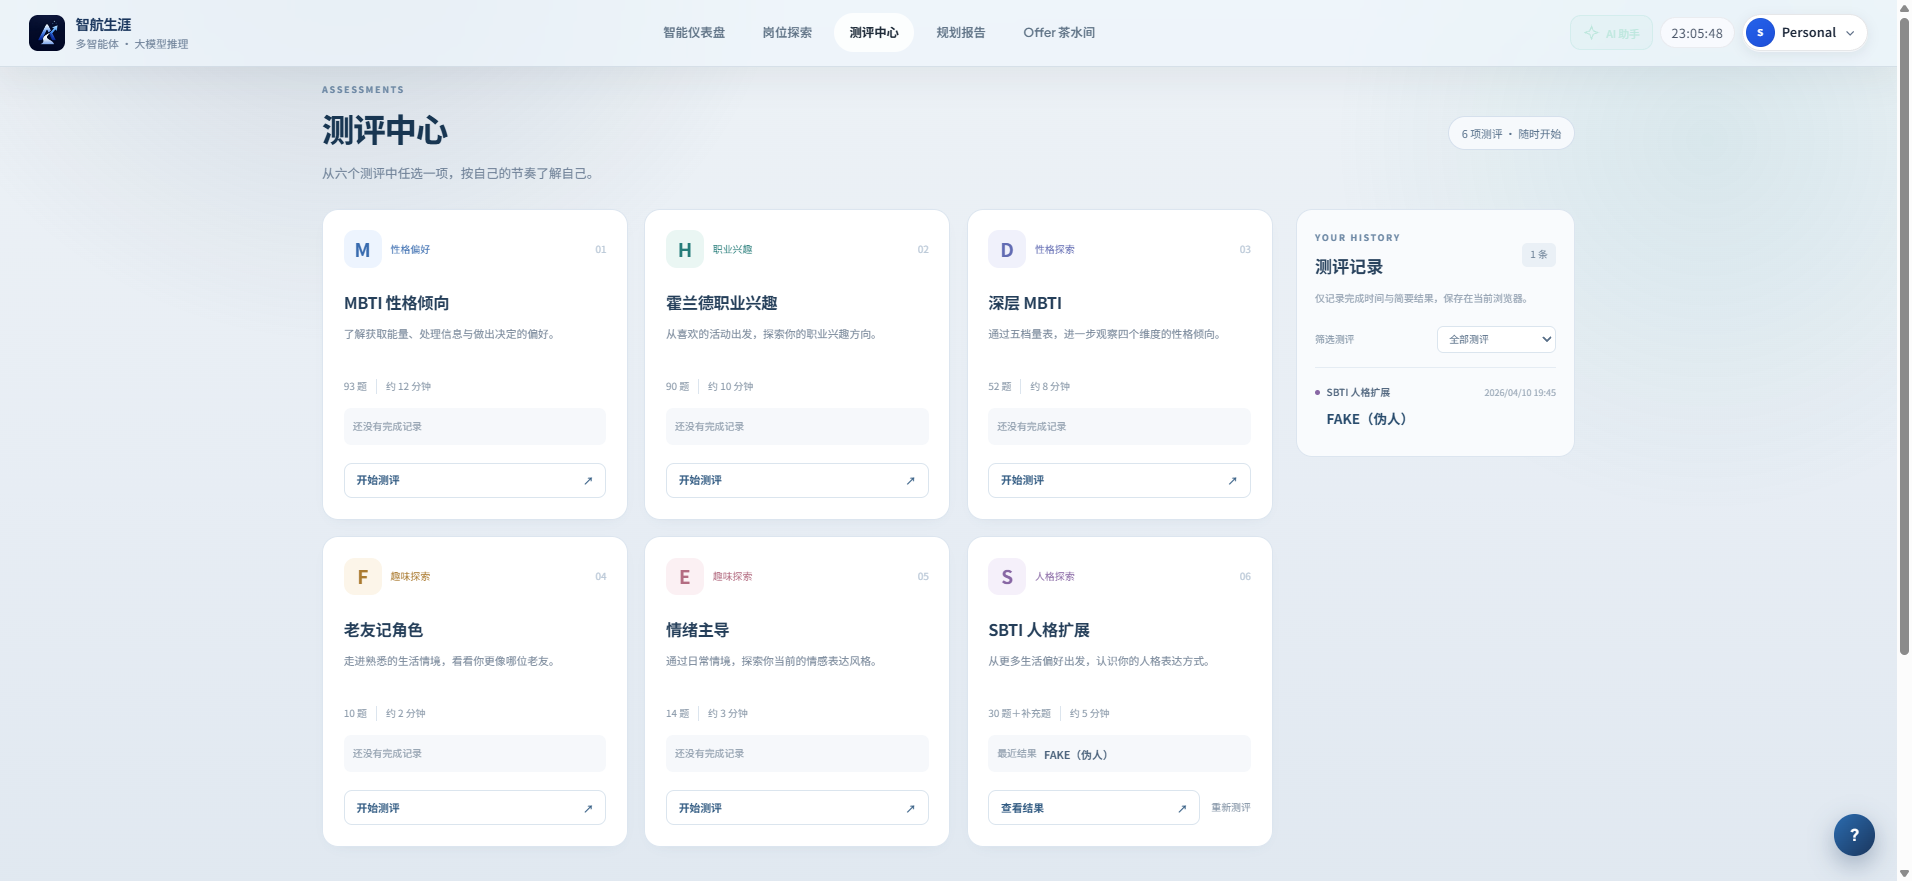
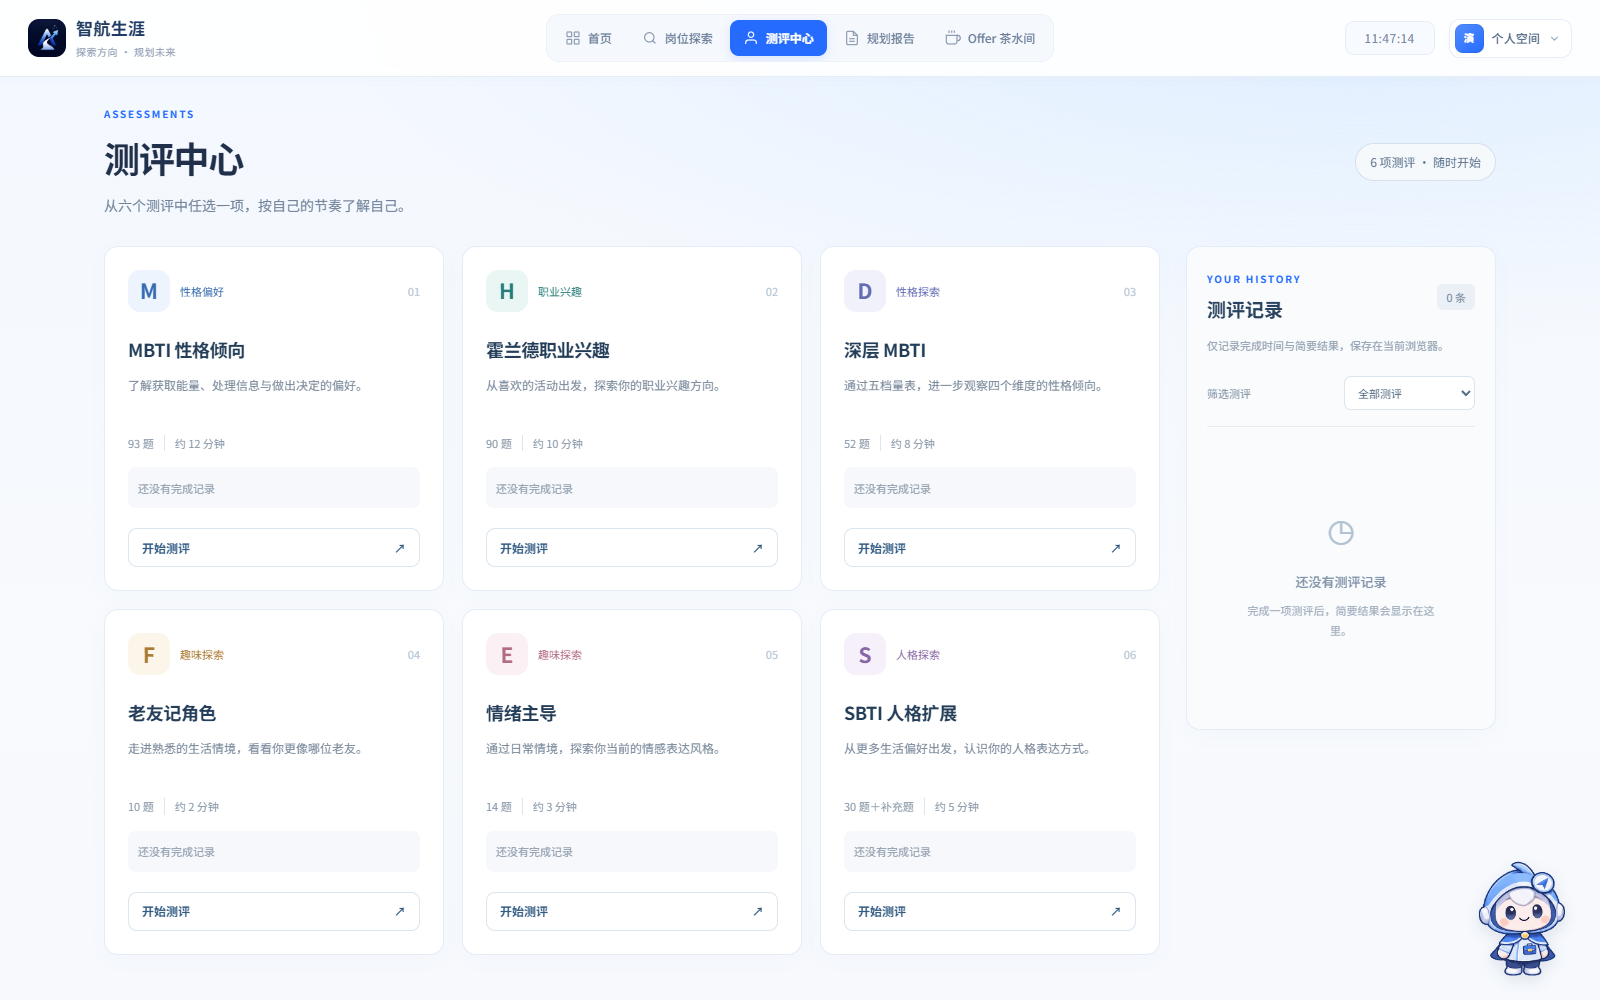
docs: refresh feature screenshots and expand README gallery

diff --git a/README.md b/README.md
@@ -31,7 +31,7 @@
 | --- | --- |
 | 🧩 测评中心 | MBTI、霍兰德、深层 MBTI、老友记角色、情绪主导、SBTI 六项测评；保存答题进度、查看历史结果，基础测评支持最近两次结果对比。 |
 | 🔎 岗位探索 | 定时获取公开招聘岗位，查看最新机会、样本行情、技能要求与来源时间，支持多维筛选和 Excel 导出；保留历史岗位档案与城市分析。详见[最新岗位与行情观察](docs/job-market.md)。 |
-| 📄 简历分析 | 上传 PDF、DOCX 等简历，提取经历与技能，分析岗位匹配情况、证据和待补材料；可按需启用 OCR。 |
+| 📄 简历分析 | 上传 PDF、DOCX 等简历，诊断经历深度、表达问题与证据缺口，给出有原文依据的修改建议；扫描文档可通过 OCR 读取。 |
 | 🗺 职业规划报告 | 结合简历、目标和偏好分阶段生成报告，支持补充信息、确认方向、编辑润色、版本查看与 Word / PDF 导出。 |
 | ✅ 行动与学习计划 | 根据阶段、目标和可投入时间安排近期任务，延伸到中长期成长路线；为准备事项提供交付成果与验收标准。 |
 | 💬 AI 生涯助手 | 围绕职业选择、简历、面试和学习规划持续对话，结合工作台资料、简历与已保存记忆回答，支持图片输入。 |
@@ -49,19 +49,47 @@ flowchart LR
 
 测评用于提供探索线索，职业建议还需要结合简历与岗位证据。报告中的招聘样本用于说明检索到的岗位要求，不代表全市场招聘规模或薪资趋势。
 
-<details>
-<summary>🖼 查看岗位探索与测评中心截图</summary>
+## 🖼 主要功能界面
 
-| 岗位探索 | 测评中心 |
+以下截图更新于 **2026-11-06**。职业档案、规划报告与对话使用匿名演示资料，岗位和资讯展示截图时的数据快照。点击图片可查看大图。
+
+| 实时岗位与行情 | 城市招聘分析 |
 | :---: | :---: |
-| [![岗位探索](asserts/jobs.png)](asserts/jobs.png) | [![测评中心](asserts/assessments.png)](asserts/assessments.png) |
+| [![实时岗位与行情：来源、采集时间、薪资与筛选](asserts/jobs.png)](asserts/jobs.png) | [![城市招聘分析：全国地图与城市岗位画像](asserts/city-analysis.png)](asserts/city-analysis.png) |
+
+| 统一职业档案 | 技能与证据 |
+| :---: | :---: |
+| [![职业档案：教育、经历、目标与资料来源](asserts/career-profile.png)](asserts/career-profile.png) | [![技能证据：自述、经历支持、成果验证与实际评估](asserts/skill-evidence.png)](asserts/skill-evidence.png) |
+
+| 六项职业与人格测评 | 简历材料与报告生成台 |
+| :---: | :---: |
+| [![测评中心：六项测评与完成记录](asserts/assessments.png)](asserts/assessments.png) | [![报告生成台：简历上传、目标方向与求职偏好](asserts/resume-analysis.png)](asserts/resume-analysis.png) |
+
+| 职业规划报告 | 学习路径与任务板 |
+| :---: | :---: |
+| [![职业规划报告：原文依据、能力差距、行动建议与导出](asserts/career-report.png)](asserts/career-report.png) | [![学习路径：阶段任务、交付物、验收标准与学习打卡](asserts/learning.png)](asserts/learning.png) |
+
+| AI 生涯助手 | Offer 茶水间 |
+| :---: | :---: |
+| [![浅色版生涯助手：连续对话、Markdown 表格与资料入口](asserts/assistant.png)](asserts/assistant.png) | [![Offer 茶水间：面经互助、简历讨论与岗位交流](asserts/community.png)](asserts/community.png) |
+
+<details>
+<summary>📰 查看行业资讯与多智能体协作流程</summary>
+
+**职业与行业快报**：按主题浏览技术、就业与职业成长资讯，保留来源和发布时间。
+
+[![职业规划与计算机行业快报](asserts/career-news.png)](asserts/career-news.png)
+
+**报告协作流程**：从简历分析、岗位证据到目标确认、行动规划与报告合成，页面展示各阶段的执行状态。
+
+[![多智能体报告协作流程](asserts/agent-workflow.png)](asserts/agent-workflow.png)
 
 </details>
 
 <details>
 <summary>🕸 查看 LightRAG 岗位知识图谱</summary>
 
-项目将岗位材料中的角色、技能、任务和能力要求组织成可检索图谱，结合原始 JD 证据进行职业画像、技能反查和岗位比较。下图为本项目已保存的 LightRAG 界面截图。
+项目将岗位材料中的角色、技能、任务和能力要求组织成可检索图谱，结合原始 JD 证据进行职业画像、技能反查和岗位比较。下图为当前 `career_jd` 知识库的 LightRAG 实际界面。
 
 [![LightRAG 岗位知识图谱](asserts/lightrag-career-graph.png)](asserts/lightrag-career-graph.png)
 
